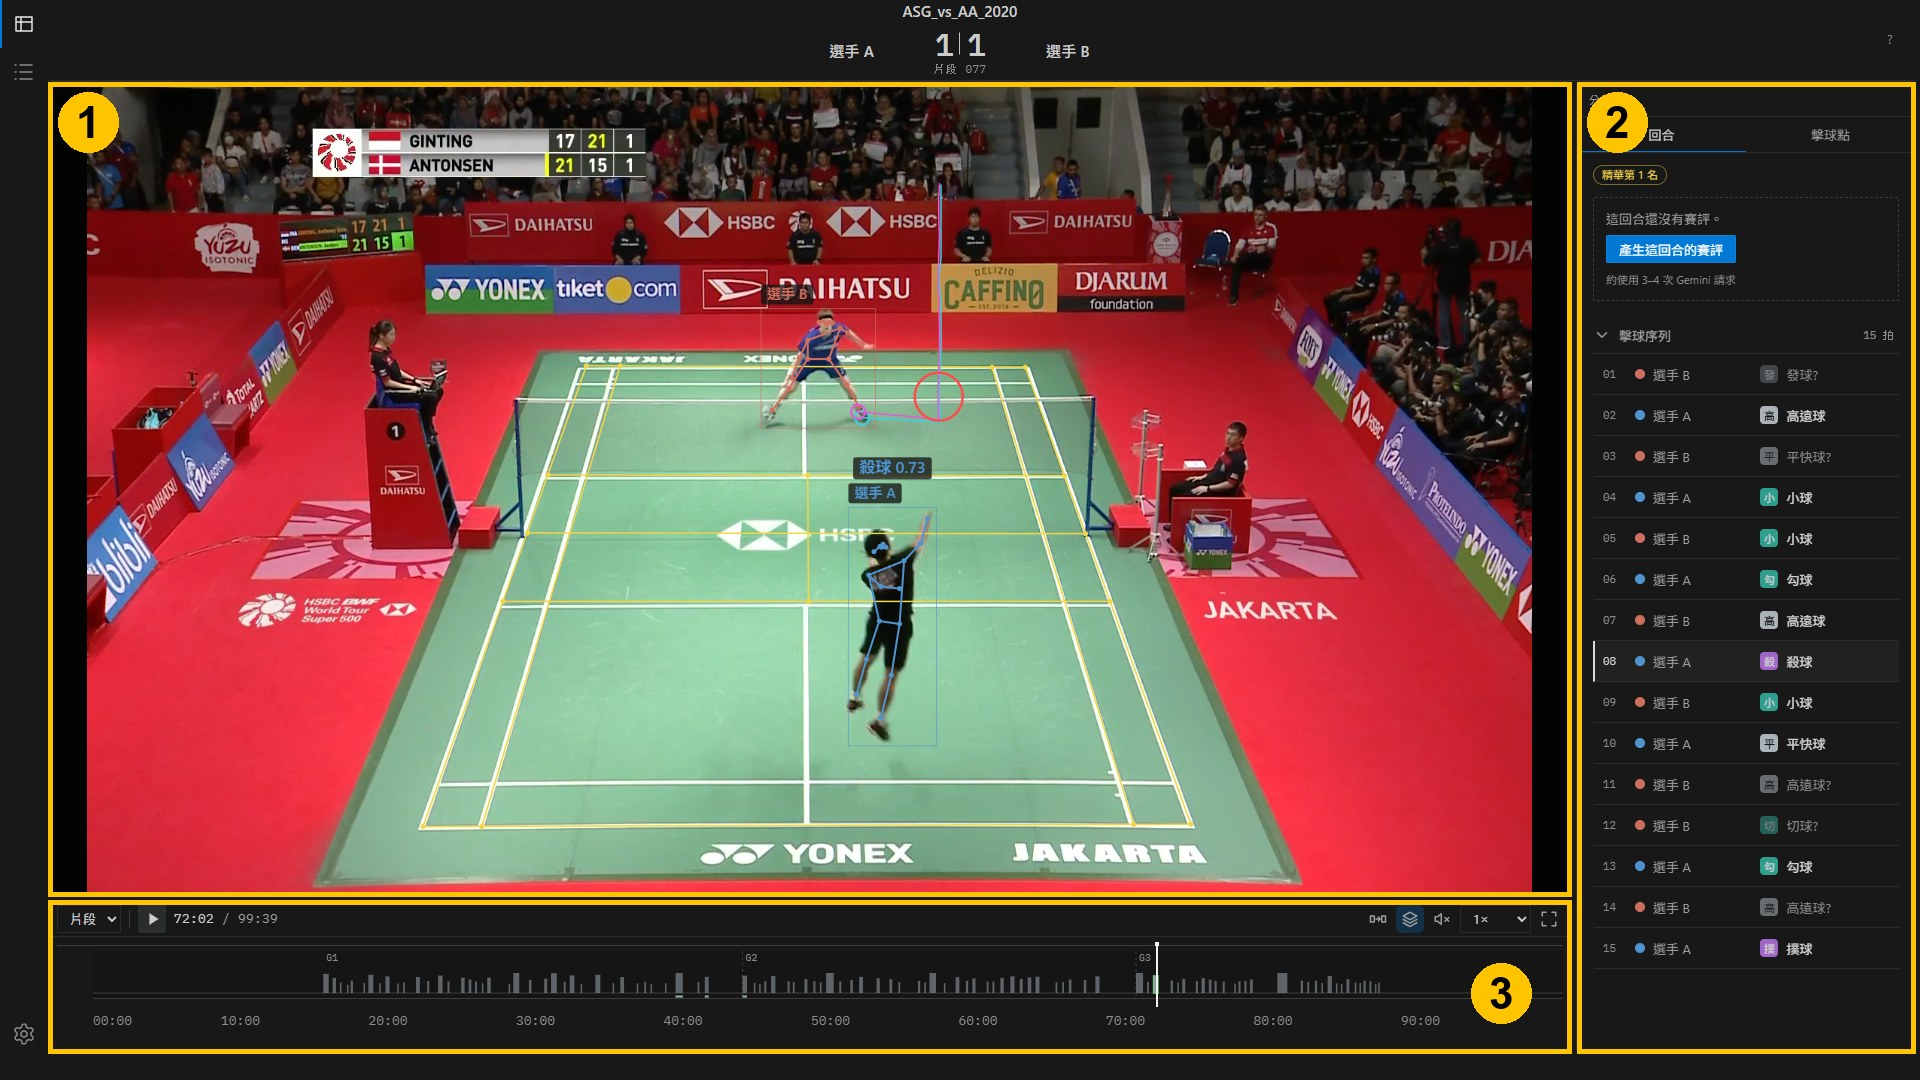
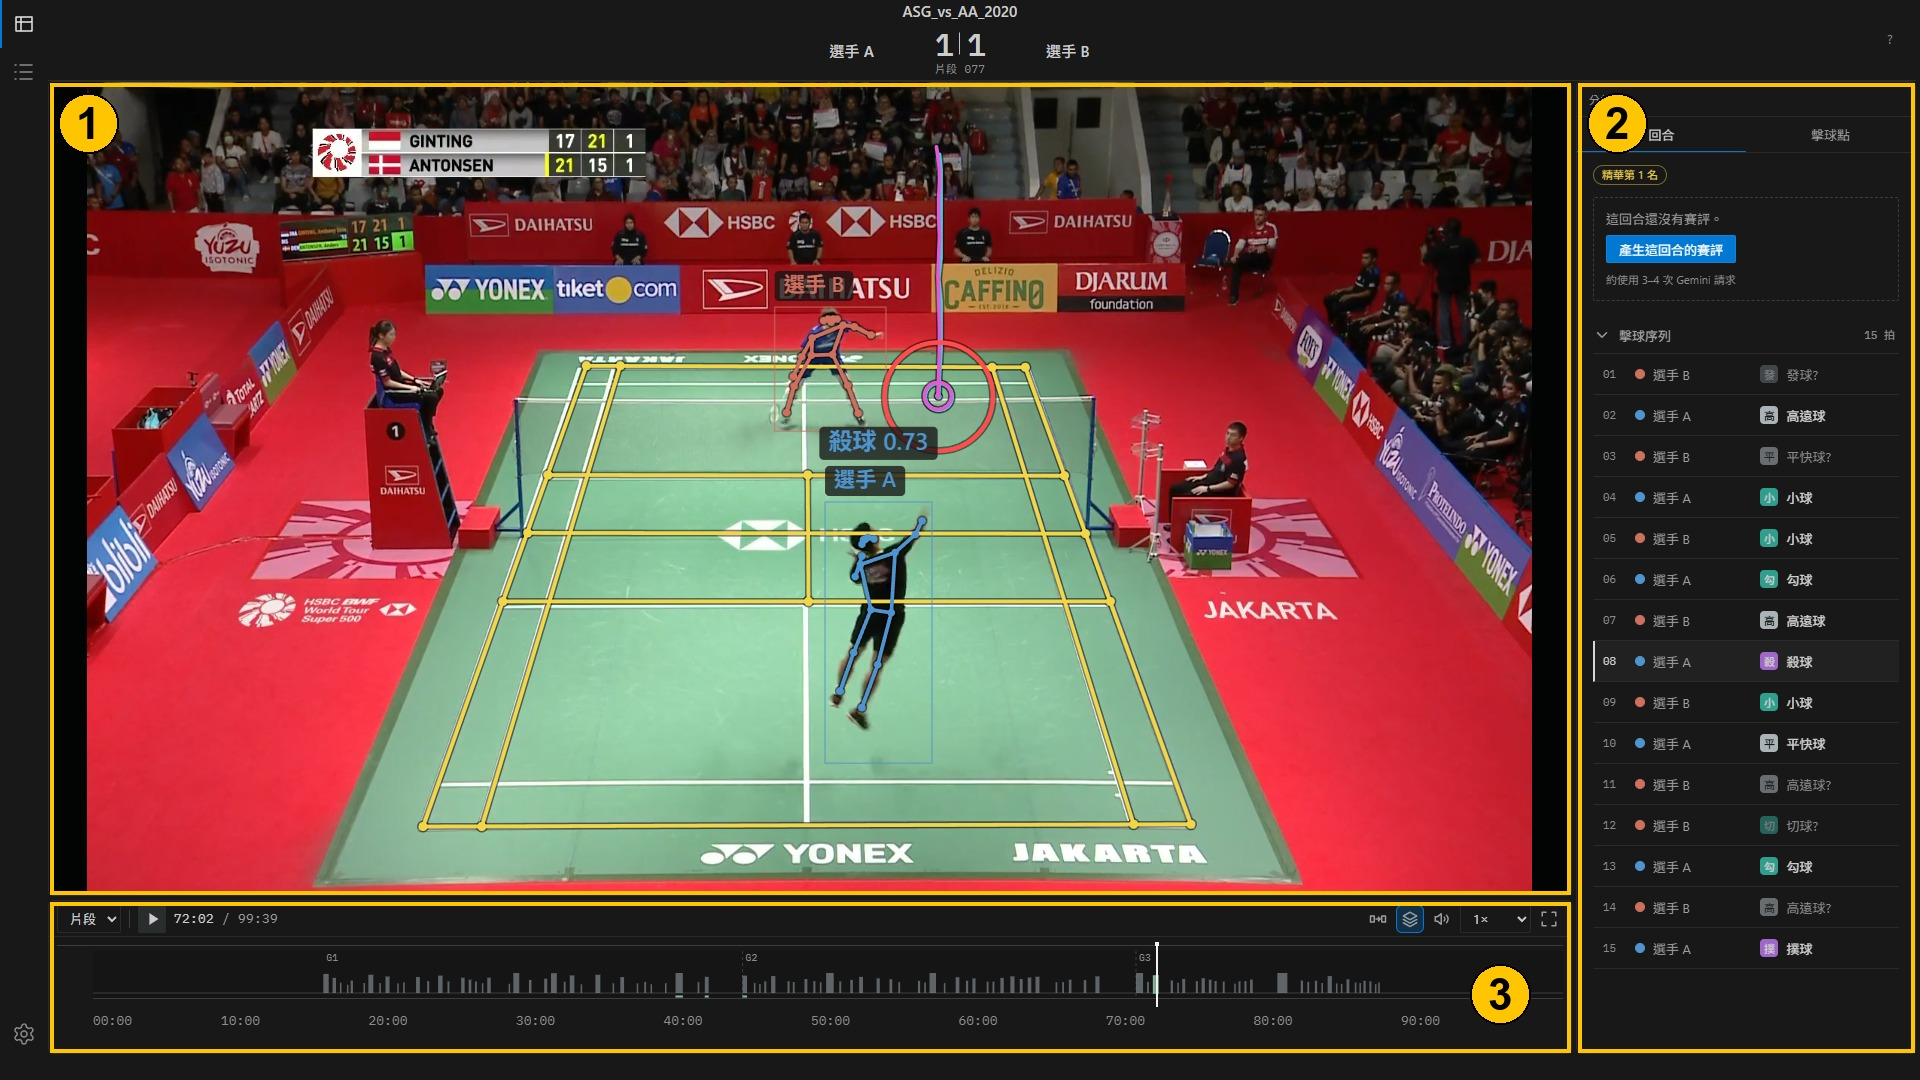
docs(report): refresh UI screenshots and sync the UI section with recent changes
Retake the review workspace and overlay figures with the thicker overlay
marks, and fill the empty plan preview figure. The plan is listed as stages
are ticked rather than after pressing start, the commentary stage only
generates a few demonstration rallies, and the court is checked mid-task
with stages that read an old court rerun automatically.

diff --git a/docs/report.md b/docs/report.md
@@ -1322,7 +1322,7 @@ flowchart LR
 
 - **擊球序列：** 依序列出每一拍的擊球者與球種，信心度低於 0.5 的球種以淡色加問號標示。點選任一拍，影片即跳到該拍的擊球時刻。
 - **精華標記：** 精彩度排名在全場前 10% 的回合，會在欄位頂端顯示排名徽章。
-- **單回合賽評：** 賽評不預先為整場比賽產生，而是由使用者在想看的回合按下「產生這回合的賽評」，每次約使用 3–4 次 Gemini 請求。產生後，回合摘要下方以「依據 #1、#2…」列出摘要所引用的擊球，點選即跳到該拍。逐拍賽評則附在擊球序列的每一拍下方，讓使用者能逐句對照影片確認賽評是否有所本。
+- **單回合賽評：** 分析流程中的賽評階段只示範生成精彩排名前 3 的回合。其他回合由使用者在想看時按下「產生這回合的賽評」，每次約使用 3–4 次 Gemini 請求。產生後，回合摘要下方以「依據 #1、#2…」列出摘要所引用的擊球，點選即跳到該拍。逐拍賽評則附在擊球序列的每一拍下方，讓使用者能逐句對照影片確認賽評是否有所本。
 - **擊球點：** 以俯視球場標出本回合每一拍的擊球位置，依擊球順序連線，顏色區分兩名球員，可一眼看出回合中雙方的跑動與落點分布。
 
 <figure>
@@ -1353,9 +1353,12 @@ flowchart LR
 
 ### 分析任務與場地校正
 
-**分析計畫預覽：** 使用者勾選分析項目並按下「開始分析」後，介面先列出執行計畫：哪些階段會執行、哪些沿用既有結果及其原因，以及計畫是否會呼叫 Gemini API。若某些未勾選階段的上游結果會因這次分析而改變，介面也會列出這些將會過期的階段，回看時不會顯示過期的資料。
+**分析計畫預覽：** 使用者勾選分析項目時，介面即時列出執行計畫：哪些階段會執行、哪些沿用既有結果及其原因，以及計畫是否會呼叫 Gemini API。若某些未勾選階段的上游結果會因這次分析而改變，介面也會列出這些將會過期的階段，回看時不會顯示過期的資料。
 
-<!-- 待補截圖：按下「開始分析」後的執行計畫預覽畫面 -->
+<figure>
+  <img src="./report_pic/ui/plan_preview.png">
+  <figcaption>分析計畫預覽</figcaption>
+</figure>
 
 **任務進度：** 分析在獨立的背景程序中執行。任務頁顯示整體進度、各階段耗時與詳細記錄，使用者也可以隨時取消，取消時已完成的階段會保留，下次分析只需從中斷處繼續。
 
@@ -1364,7 +1367,7 @@ flowchart LR
   <figcaption>任務進度，顯示整體與各階段的進度及詳細記錄</figcaption>
 </figure>
 
-**場地校正：** 場地偵測失敗或角點不準時，使用者可以在分析設定頁的「場地校正」中，直接在球場畫面上拖曳四個外角修正位置，並以方向鍵逐像素微調。
+**場地校正：** 場地偵測是後續選人與站位換算的基礎，因此任務會先執行場地偵測，並把需要讀取球場的階段排到最後。球場一偵測完，介面即提示使用者檢查，分析設定頁自動展開場地預覽，其餘階段照常進行。若角點明顯偏移，使用者可直接在球場畫面上拖曳四個外角，並以方向鍵逐像素微調。保存後，尚未開始的階段直接使用新球場，已讀過舊球場的階段則自動重跑。
 
 <figure>
   <img src="./report_pic/ui/court_calibration.png">
